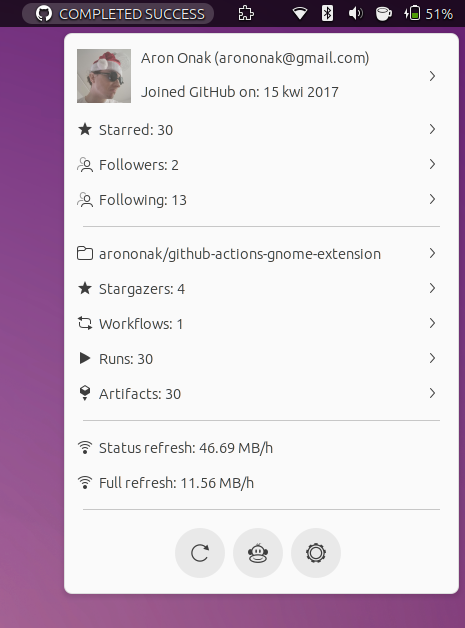
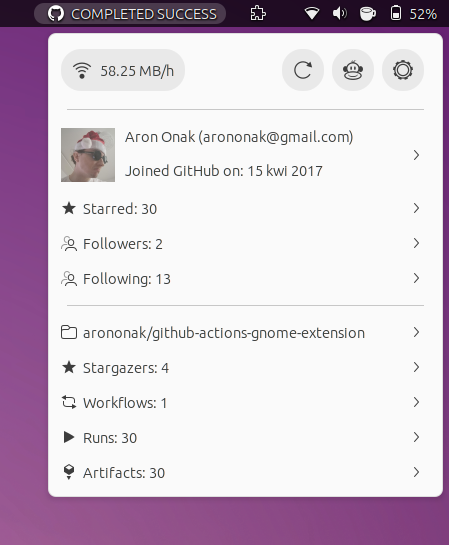
New PopupLayout

diff --git a/github-actions@arononak.github.io/extension.js b/github-actions@arononak.github.io/extension.js
@@ -126,7 +126,7 @@ async function hotRefresh(settings, indicator) {
         const currentState = indicator.label.text;
 
         indicator.setRuns(runs['workflow_runs']);
-        indicator.refreshTransfer(settings);
+        indicator.refreshTransfer(settings, indicator.isLogged);
 
         /// Notification
         if (!utils.isEmpty(previousState) && previousState !== loadingText && previousState !== notLoggedInText && previousState !== currentState) {
@@ -207,40 +207,70 @@ const Indicator = GObject.registerClass(
         }
 
         initPopupMenu(isLogged) {
-            if (isLogged == true) {
-                this.initLoggedMenu();
-            }
+            this.box = new St.BoxLayout({
+                style_class: 'github-actions-top-box',
+                vertical: false,
+                x_expand: true,
+                x_align: Clutter.ActorAlign.FILL,
+                y_align: Clutter.ActorAlign.CENTER,
+            });
 
-            /// Bottom menu
-            this.bottomButtonBox = new St.BoxLayout({
+            this.leftBox = new St.BoxLayout({
+                style_class: 'github-actions-top-box',
+                vertical: false,
+                x_expand: true,
+                x_align: Clutter.ActorAlign.FILL,
+                y_align: Clutter.ActorAlign.CENTER,
+            });
+
+            this.rightBox = new St.BoxLayout({
                 style_class: 'github-actions-button-box',
-                x_align: Clutter.ActorAlign.CENTER,
+                x_align: Clutter.ActorAlign.END,
                 y_align: Clutter.ActorAlign.CENTER,
                 clip_to_allocation: true,
                 reactive: true,
-                x_expand: true,
                 pack_start: false,
                 vertical: false
             });
+
+            this.box.add(this.leftBox);
+            this.box.add(this.rightBox);
+
+            /// Network transfer
+            this.networkContainer = new St.BoxLayout();
+            this.networkButton = new St.Button({ style_class: 'button github-actions-button-action' });
+            this.networkIcon = new St.Icon({ icon_name: 'network-wireless-symbolic', icon_size: 20 });
+            this.networkLabel = new St.Label();
+            this.networkLabel.style = 'margin-left: 8px; margin-top: 2px;';
+            this.networkContainer.add(this.networkIcon);
+            this.networkContainer.add(this.networkLabel);
+            this.networkButton.set_child(this.networkContainer);
+            this.leftBox.add(this.networkButton);
+
             this.bottomItem = new PopupMenu.PopupBaseMenuItem({ reactive: false });
             this.bottomItem.remove_all_children(); // Remove left margin from non visible PopupMenuItem icon
-            this.bottomItem.actor.add_actor(this.bottomButtonBox);
+            this.bottomItem.actor.add_actor(this.box);
             this.menu.addMenuItem(this.bottomItem);
 
             /// Refresh
             this.refreshButton = createRoundButton({ iconName: 'view-refresh-symbolic' });
             this.refreshButton.connect('clicked', (self) => this.refreshCallback());
-            this.bottomButtonBox.add_actor(this.refreshButton);
+            this.rightBox.add_actor(this.refreshButton);
 
             /// Bored
             this.boredButton = createRoundButton({ iconName: 'face-monkey-symbolic' });
             this.boredButton.connect('clicked', (self) => utils.openUrl('https://api.github.com/octocat'));
-            this.bottomButtonBox.add_actor(this.boredButton);
+            this.rightBox.add_actor(this.boredButton);
 
             /// Settings
             this.settingsItem = createRoundButton({ iconName: 'system-settings-symbolic' });
             this.settingsItem.connect('clicked', (self) => ExtensionUtils.openPrefs());
-            this.bottomButtonBox.add_actor(this.settingsItem);
+            this.rightBox.add_actor(this.settingsItem);
+
+            if (isLogged == true) {
+                this.menu.addMenuItem(new PopupMenu.PopupSeparatorMenuItem());
+                this.initLoggedMenu();
+            }
         }
 
         initLoggedMenu() {
@@ -305,21 +335,12 @@ const Indicator = GObject.registerClass(
             /// Artifacts
             this.artifactsMenuItem = new ExpandedMenuItem('insert-object-symbolic', loadingText);
             this.menu.addMenuItem(this.artifactsMenuItem);
-            this.menu.addMenuItem(new PopupMenu.PopupSeparatorMenuItem());
-
-            /// Status package Sizes
-            this.packageSizeItem = createPopupImageMenuItem(loadingText, 'network-wireless-symbolic', () => { });
-            this.menu.addMenuItem(this.packageSizeItem);
-
-            /// Cold package size
-            this.fullPackageSizeItem = createPopupImageMenuItem(loadingText, 'network-wireless-symbolic', () => { });
-            this.menu.addMenuItem(this.fullPackageSizeItem);
-            this.menu.addMenuItem(new PopupMenu.PopupSeparatorMenuItem());
         }
 
-        refreshTransfer(settings) {
-            this.packageSizeItem.label.text = 'Status refresh: ' + utils.prefsDataConsumptionPerHour(settings);
-            this.fullPackageSizeItem.label.text = 'Full refresh: ' + utils.prefsFullDataConsumptionPerHour(settings);
+        refreshTransfer(settings, isLogged) {
+            if (isLogged == true) {
+                this.networkLabel.text = utils.fullDataConsumptionPerHour(settings);
+            }
         }
 
         refreshAuthState(isLogged) {

diff --git a/github-actions@arononak.github.io/utils.js b/github-actions@arononak.github.io/utils.js
@@ -58,6 +58,21 @@ var prefsFullDataConsumptionPerHour = function(settings) {
     return bytesToString(_dataConsumptionPerHour) + '/h';
 }
 
+/// Full data consumption
+var fullDataConsumptionPerHour = function(settings) {
+    const hotRefreshSize = settings.get_int('package-size-in-bytes');
+    const hotRefreshTime = prefsRefreshTime(settings);
+    const hotConsumption = ((hotRefreshSize / hotRefreshTime) * 60 * 60);
+
+    const coldRefreshSize = settings.get_int('cold-package-size-in-bytes');
+    const coldRefreshTime = prefsRefreshFullUpdateTime(settings);
+    const coldConsumption = ((coldRefreshSize / coldRefreshTime) * 60);
+
+    return bytesToString(hotConsumption + coldConsumption) + '/h';
+}
+
+////////////////////////////////////////
+
 function bytesToString(size) {
     var i = size == 0 ? 0 : Math.floor(Math.log(size) / Math.log(1024));
 
